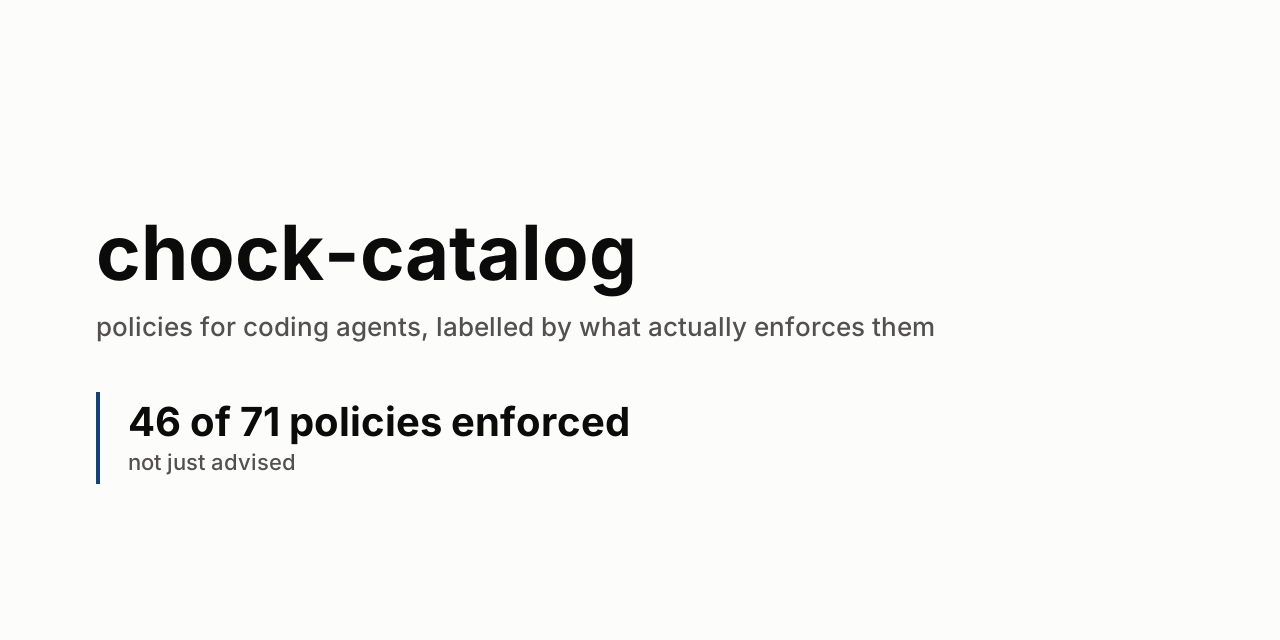
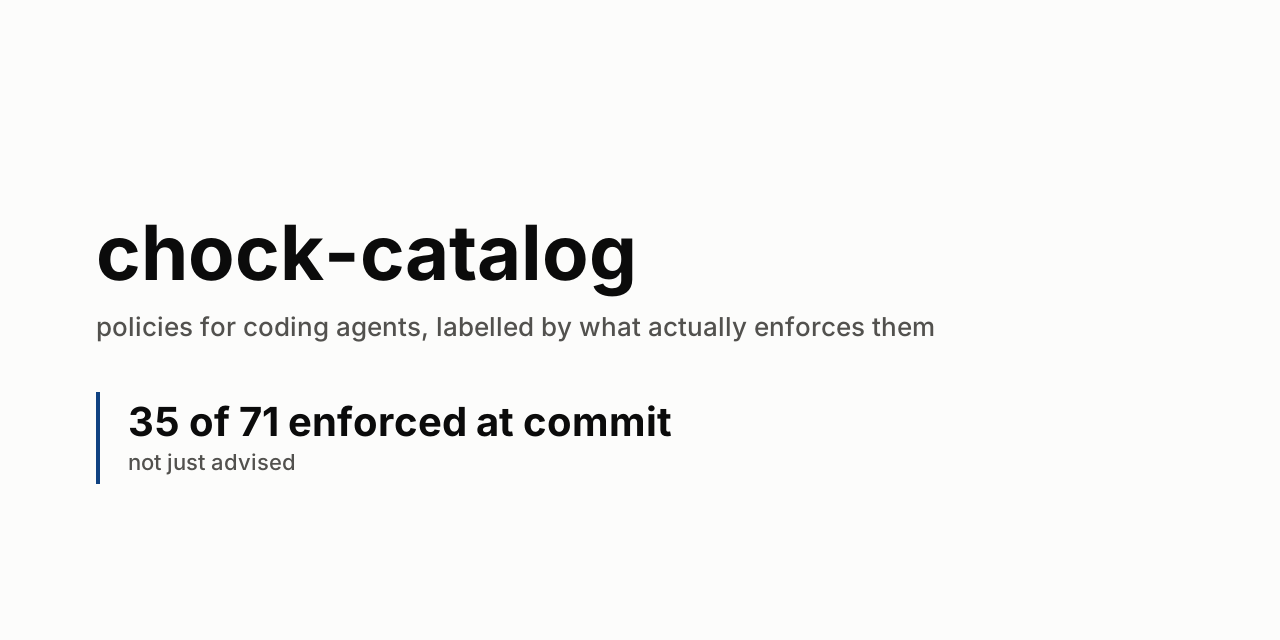
docs: social card says what is enforced at commit; llms.txt PyPI line

Changed region(s): [[0.0938, 0.625, 0.5312, 0.6875]]

diff --git a/docs/figures/make_social.py b/docs/figures/make_social.py
@@ -12,7 +12,7 @@ def render():
     t = p.theme("light")
     counts = read_counts()
     total = sum(n for n, _, _ in counts)
-    enforced = counts[0][0] + counts[1][0]
+    enforced = counts[0][0]
 
     svg = p.open_svg(
         W,
@@ -20,7 +20,7 @@ def render():
         t,
         "chock-catalog",
         f"chock-catalog: the policy catalog for chock. {enforced} of {total} policies are "
-        "enforced, not just advised.",
+        "enforced at commit, not just advised.",
     )
     svg += p.text(96, 280, "chock-catalog", t["text"], 76, p.MONO, "700")
     svg += p.text(
@@ -34,7 +34,7 @@ def render():
     svg += p.text(
         128,
         436,
-        f"{enforced} of {total} policies enforced",
+        f"{enforced} of {total} enforced at commit",
         t["text"],
         40,
         weight="700",
